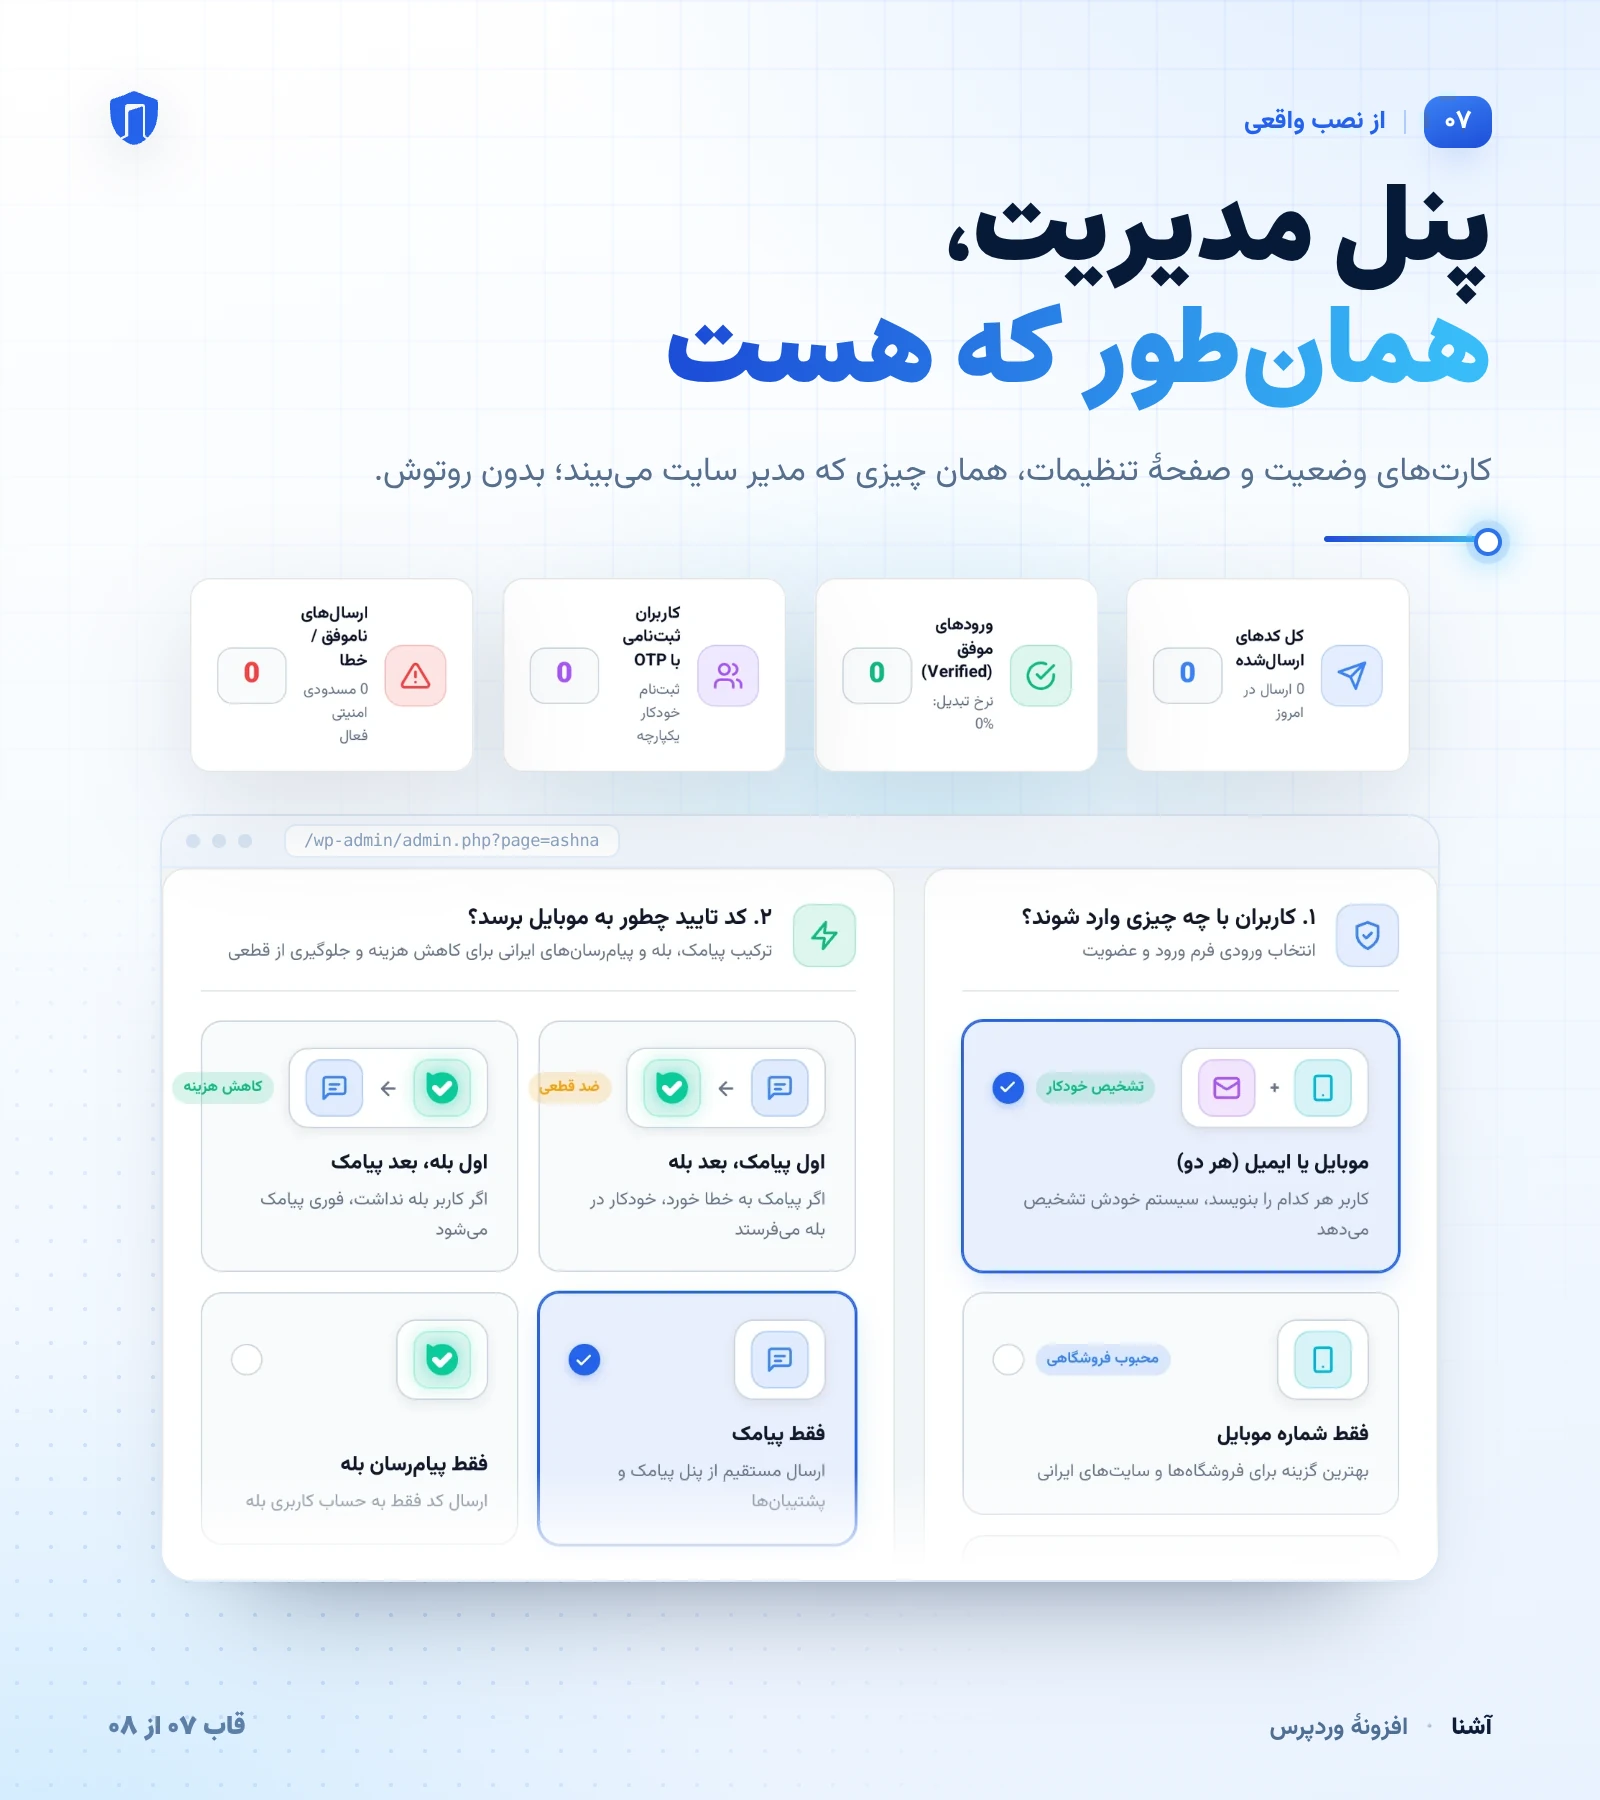
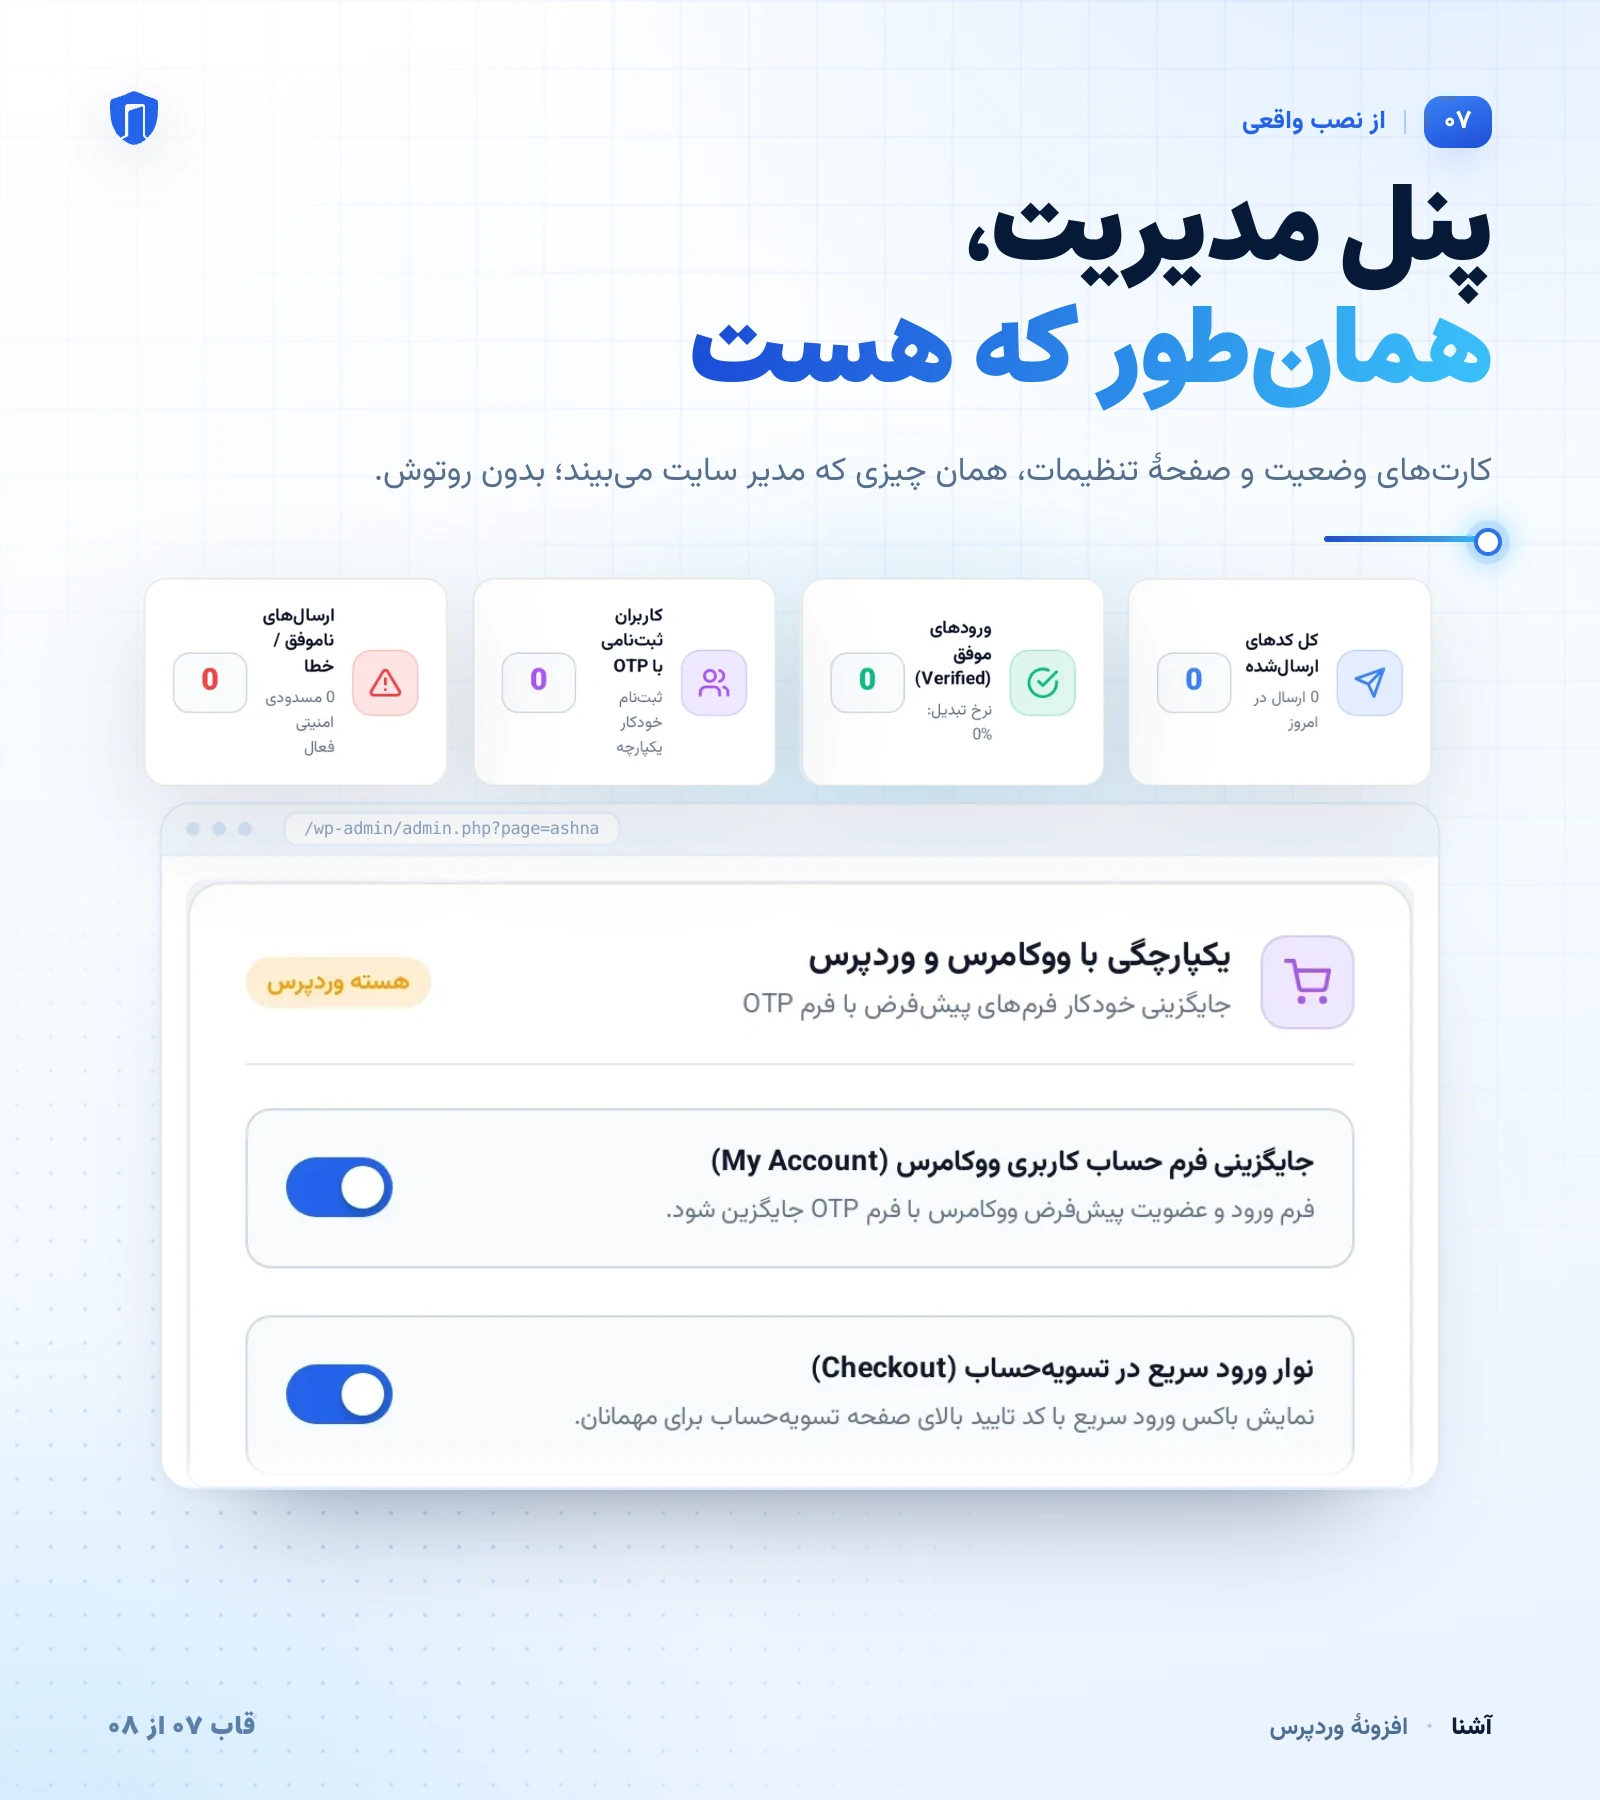
gallery-v2: phone centred, right-to-left failover arrows, no clipped chips
- 01: the phone and its three-moment path move 28px toward the middle, so the
  body clears the frame edge the way the other frames do.
- 04: the chain now reads right-to-left like the rest of the layout. The chunky
  filled triangles are replaced by round-capped chevrons that sit in the gaps
  between cards; the failed hop is rose, the next hop is quiet grey.
- 07: the settings screen is a fresh crop of the real integrations page
  (1148x566) instead of the auth screen, whose two side chips straddled the card
  edges and got sliced. The window ends in the gap between two switch rows, and
  the stat cards are a touch larger.
- 8 WebP at 1600x1800, 822,022 B total; qc CLEAN.

diff --git a/product-images/gallery-v2/index.html b/product-images/gallery-v2/index.html
@@ -263,7 +263,7 @@
 /* ══════════════════ v3 additions ══════════════════ */
 
 /* — ۰۱ · phone body drawn at iPhone 18 Pro Max proportions — */
-.phone-v3{position:absolute;left:4px;top:8px;width:240px;height:504px;border-radius:33px;padding:8.5px;
+.phone-v3{position:absolute;left:32px;top:8px;width:240px;height:504px;border-radius:33px;padding:8.5px;
   background:linear-gradient(158deg,#FFFFFF 0%,#E9F1FB 52%,#CFDDEF 100%);
   border:1px solid rgba(176,199,226,.95);
   box-shadow:0 48px 70px -46px rgba(7,26,56,.75),0 3px 10px rgba(7,26,56,.07),
@@ -284,7 +284,7 @@
 .phone-v3 .codes .caret{width:2px;height:18px;border-radius:2px;background:#fff;display:block;opacity:.92}
 
 /* — ۰۱ · the path of three moments — */
-.stg{position:absolute;left:260px;width:380px;height:68px;display:flex;align-items:center;gap:16px;
+.stg{position:absolute;left:288px;width:380px;height:68px;display:flex;align-items:center;gap:16px;
   z-index:2;direction:rtl}
 .med{width:66px;height:66px;border-radius:50%;flex:none;display:grid;place-items:center;
   background:linear-gradient(165deg,#FFFFFF,#F1F7FF);border:1px solid #D8E6F8;
@@ -398,9 +398,9 @@
     </div>
 
     <!-- one continuous path, three moments — no numbers, no checklist boxes -->
-    <div style="position:absolute;left:606px;top:54px;width:3px;height:400px;border-radius:3px;
+    <div style="position:absolute;left:634px;top:54px;width:3px;height:400px;border-radius:3px;
          background:linear-gradient(180deg,#2563EB,#38BDF8 48%,#10B981);opacity:.42;z-index:0"></div>
-    <svg width="16" height="392" viewBox="0 0 16 392" style="position:absolute;left:600px;top:58px;z-index:1">
+    <svg width="16" height="392" viewBox="0 0 16 392" style="position:absolute;left:628px;top:58px;z-index:1">
       <path d="M8 168l4.5 7h-9z" fill="#8FC4F4" opacity=".85"/>
       <path d="M8 328l4.5 7h-9z" fill="#6FE0B4" opacity=".85"/>
     </svg>
@@ -682,13 +682,22 @@
     <div class="bleed" style="position:absolute;left:150px;top:-50px;width:560px;height:320px;border-radius:50%;
          background:radial-gradient(circle,rgba(56,189,248,.16),transparent 70%);filter:blur(22px)"></div>
 
-    <!-- the chain: solid where it worked, broken where it failed -->
-    <div style="position:absolute;left:44px;top:132px;width:620px;height:3px;border-radius:3px;z-index:0;
-         background:linear-gradient(90deg,#E1ECF9 0%,#E1ECF9 35%,rgba(16,185,129,.5) 35%,rgba(16,185,129,.5) 70%,rgba(244,63,94,.32) 70%,rgba(244,63,94,.32) 100%)"></div>
-    <svg width="692" height="200" viewBox="0 0 692 200" style="position:absolute;left:0;top:0;z-index:1">
-      <g fill="#E8738C"><path d="M475 132l-16 9.4v-18.8z"/></g>
-      <g fill="#C6D8EC"><path d="M255 132l-16 9.4v-18.8z"/></g>
-      
+    <!-- the chain runs right-to-left: SMS.ir failed, Kavengar took over -->
+    <div style="position:absolute;left:246px;top:132px;width:8px;height:3px;border-radius:3px;z-index:3;
+         background:rgba(16,185,129,.34)"></div>
+    <div style="position:absolute;left:466px;top:132px;width:8px;height:3px;border-radius:3px;z-index:3;
+         background:rgba(244,63,94,.30)"></div>
+
+    <!-- hop 2 · Kavengar → Melipayamak (still waiting) -->
+    <svg width="24" height="20" viewBox="0 0 24 20" style="position:absolute;left:238px;top:123px;z-index:4">
+      <path d="M15 2.5 6.5 10l8.5 7.5" fill="none" stroke="#A9C3DC" stroke-width="2.6"
+            stroke-linecap="round" stroke-linejoin="round"/>
+    </svg>
+
+    <!-- hop 1 · SMS.ir → Kavengar (failed, handed over) -->
+    <svg width="26" height="22" viewBox="0 0 26 22" style="position:absolute;left:458px;top:122px;z-index:4">
+      <path d="M16.5 2.5 7 11l9.5 8.5" fill="none" stroke="#E4708F" stroke-width="2.9"
+            stroke-linecap="round" stroke-linejoin="round"/>
     </svg>
 
     <div class="fcard" style="left:480px;top:36px;width:190px;border-color:#F6D3DA;background:linear-gradient(170deg,#FFFFFF,#FFF7F9)">
@@ -1007,19 +1016,19 @@
          background:radial-gradient(circle,rgba(56,189,248,.16),transparent 70%);filter:blur(20px)"></div>
 
     <!-- the four real dashboard cards, at a size you can actually read -->
-    <div style="position:absolute;left:41px;top:0;display:flex;gap:14px;z-index:3">
-      <img src="img/cards/stat-4.png" alt="کل کدهای ارسالشده" style="width:142px;height:auto;display:block;
+    <div style="position:absolute;left:18px;top:0;display:flex;gap:12px;z-index:3">
+      <img src="img/cards/stat-4.png" alt="کل کدهای ارسالشده" style="width:152px;height:auto;display:block;
            filter:drop-shadow(0 18px 26px rgba(7,26,56,.12))">
-      <img src="img/cards/stat-3.png" alt="ورودیهای موفق" style="width:142px;height:auto;display:block;
+      <img src="img/cards/stat-3.png" alt="ورودیهای موفق" style="width:152px;height:auto;display:block;
            filter:drop-shadow(0 18px 26px rgba(7,26,56,.12))">
-      <img src="img/cards/stat-2.png" alt="کاربران با OTP" style="width:142px;height:auto;display:block;
+      <img src="img/cards/stat-2.png" alt="کاربران با OTP" style="width:152px;height:auto;display:block;
            filter:drop-shadow(0 18px 26px rgba(7,26,56,.12))">
-      <img src="img/cards/stat-1.png" alt="ارسالهای ناموفق" style="width:142px;height:auto;display:block;
+      <img src="img/cards/stat-1.png" alt="ارسالهای ناموفق" style="width:152px;height:auto;display:block;
            filter:drop-shadow(0 18px 26px rgba(7,26,56,.12))">
     </div>
 
     <!-- the real settings screen, framed with room to breathe -->
-    <div style="position:absolute;left:26px;top:118px;width:640px;z-index:2">
+    <div style="position:absolute;left:26px;top:112px;width:640px;z-index:2">
       <div style="border-radius:16px;overflow:hidden;background:#fff;border:1px solid #DCE8F6;
            box-shadow:0 40px 60px -44px rgba(7,26,56,.55),0 2px 6px rgba(7,26,56,.04)">
         <div style="height:26px;display:flex;align-items:center;gap:6px;padding:0 12px;direction:ltr;
@@ -1030,11 +1039,13 @@
           <span style="margin-left:10px;font-size:8.5px;color:#8CA3BF;background:#fff;border:1px solid #E5EFFB;
                 border-radius:6px;padding:2.5px 9px;font-family:monospace;letter-spacing:-.2px">/wp-admin/admin.php?page=ashna</span>
         </div>
-        <div style="position:relative;height:356px;overflow:hidden;background:#fff">
-          <img src="../infographic/img/auth.webp" alt="تنظیمات واقعی افزونه آشنا"
-               style="width:100%;display:block;object-fit:cover;object-position:top">
-          <div style="position:absolute;left:0;right:0;bottom:0;height:54px;
-               background:linear-gradient(180deg,rgba(255,255,255,0),#fff 88%)"></div>
+        <div style="background:#fff;padding:12px 12px 0">
+          <div style="position:relative;overflow:hidden;border-radius:10px;border:1px solid #EDF3FB">
+            <img src="img/shop-settings.webp" alt="تنظیمات واقعی افزونه آشنا"
+                 style="width:100%;display:block">
+            <div style="position:absolute;left:0;right:0;bottom:0;height:22px;
+                 background:linear-gradient(180deg,rgba(255,255,255,0),#fff 92%)"></div>
+          </div>
         </div>
       </div>
     </div>

diff --git a/product-images/gallery-v2/README-FA.md b/product-images/gallery-v2/README-FA.md
@@ -4,16 +4,16 @@
 
 | فایل | تیتر قاب | دستگاه گرافیکی | حجم |
 |---|---|---|---|
-| `01-otp.webp` | یک کد کوتاه، بهجای رمز و فرم طولانی | تلفن با نسبت آیفون ۱۸ پرومکس + مسیر سهایستگاهی ورود | ۱۱۰ KB |
+| `01-otp.webp` | یک کد کوتاه، بهجای رمز و فرم طولانی | تلفن با نسبت آیفون ۱۸ پرومکس + مسیر سهایستگاهی ورود | ۱۱۱ KB |
 | `02-gateways.webp` | شش سامانه، هر کدام یک کلید | نشان واقعی هر سامانه روی کارت خودش، دور نشان آشنا | ۸۶ KB |
 | `03-limits.webp` | هر شماره، فقط به اندازهٔ خودش | گیج ۲۷۰ درجه، سه مخزن مصرف، کارت وضعیت سهبخشی | ۱۰۸ KB |
-| `04-failover.webp` | یکی قطع شد، بعدی میفرستد | سه کارت درگاه در یک ردیف + کارت رسیدن کد | ۸۸ KB |
+| `04-failover.webp` | یکی قطع شد، بعدی میفرستد | سه کارت درگاه در یک ردیف، فلشهای راستبهچپ + کارت رسیدن کد | ۸۸ KB |
 | `05-sso.webp` | دو در، یک حساب کاربری | دو کارت گوگل/تلگرام دو طرف فرم ورود | ۸۵ KB |
 | `06-appearance.webp` | فرم را همرنگ سایت خودت کن | پیشنمایش واقعی + پنل کنترل + چهار پیشفرض | ۱۳۰ KB |
-| `07-panel.webp` | پنل مدیریت، همانطور که هست | چهار کارت وضعیت واقعی + پنجرهٔ تنظیمات | ۱۲۲ KB |
+| `07-panel.webp` | پنل مدیریت، همانطور که هست | چهار کارت وضعیت واقعی + صفحهٔ یکپارچهسازی در پنجرهٔ مرورگر | ۱۰۹ KB |
 | `08-form.webp` | فرم واقعی، روی سایت واقعی | کارت واقعی ورود، بزرگ و روشنشده | ۸۵ KB |
 
-جمع: **۸۳۴٬۳۴۰ بایت** (۸۱۵ KB) — همهٔ قابها یکجا زیر یک مگابایت.
+جمع: **۸۲۲٬۰۲۲ بایت** (۸۰۳ KB) — همهٔ قابها یکجا زیر یک مگابایت.
 
 ## منطق طراحی
 
@@ -37,7 +37,7 @@
 ## تصویر واقعی، بدون بازسازی
 
 - `img/cards/stat-1..4.png` برش چهار کارت وضعیت از `../infographic/img/dashboard.webp` است؛ همان کارتها، در تم روشن، فقط بزرگتر و با فاصلهٔ بیشتر چیده شدهاند.
-- قاب ۰۷ زیر آنها `../infographic/img/auth.webp` را داخل پنجرهٔ مرورگر نشان میدهد؛ لبهٔ پایین تصویر با محو سفید بسته شده تا برش تیز نداشته باشد.
+- قاب ۰۷ زیر آنها `img/shop-settings.webp` (برش تازه از `../infographic/img/shop.webp`، ۱۱۴۸×۵۶۶) را داخل پنجرهٔ مرورگر نشان میدهد. نسخهٔ قبلی `auth.webp` بود، اما در آن تصویر دو برچسب سبز و کهربایی دقیقاً روی لبهٔ کارتها مینشست و در کوچکشدن، نصفه از کادر بیرون میزد؛ برش تازه وسط فاصلهٔ دو ردیف تمام میشود و هیچ برچسب یا کارتی نصفه نمیماند.
 - قاب ۰۶ از `../infographic/img/appearance.webp` استفاده میکند و قاب ۰۸ از `../infographic/img/00-card.webp`.
 - هیچ اسکرینشاتی بازطراحی، بزرگنمایی یا روتوش نشده است؛ فقط قاب، سایه، چرخش سهبعدی و نور روی آن نشسته.
 
@@ -76,7 +76,8 @@ rm -rf raw
 ## نکتههای فنی
 
 - کل بوم یک `<section class="slide">` با `width:800px;height:900px` است؛ خروجی با `deviceScaleFactor: 2` رندر میشود.
-- نسبت تلفن در قاب ۰۱ عمداً ۲۴۰×۵۰۴ است (۰٫۴۷۶، همان نسبت آیفون ۱۸ پرومکس) با گوشهٔ ۳۳ پیکسل؛ تلفن قبلی ۲۷۶×۴۸۲ بود و پهن به نظر میرسید.
+- نسبت تلفن در قاب ۰۱ عمداً ۲۴۰×۵۰۴ است (۰٫۴۷۶، همان نسبت آیفون ۱۸ پرومکس) با گوشهٔ ۳۳ پیکسل؛ تلفن قبلی ۲۷۶×۴۸۲ بود و پهن به نظر میرسید. تلفن ۳۲ پیکسل از لبهٔ چپ فاصله دارد تا با حاشیهٔ بقیهٔ قابها همتراز باشد.
+- در قاب ۰۴ زنجیره از راست به چپ خوانده میشود (SMS.ir → کاوهنگار → ملیپیامک) و فلشها همان جهت را نشان میدهند؛ فلش شکسته در فاصلهٔ بین دو کارت اول و فلش خاکستری در فاصلهٔ بعدی مینشیند، نه روی لبهٔ کارتها.
 - لایههای نور که از کادر بیرون میزنند کلاس `bleed` دارند تا کنترل چیدمان آنها را سرریز حساب نکند.
 - فونتها از `assets/fonts/` بارگذاری میشوند: Vazirmatn Variable برای متن و Estedad 900 برای تیترها؛ `document.fonts.ready` قبل از عکسبرداری منتظر میماند.
 - پسزمینهٔ تیره `#05122B → #0A2350 → #040F1F` است و همان آبی برند در گرادیان تیترها استفاده میشود.
